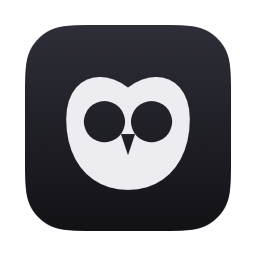
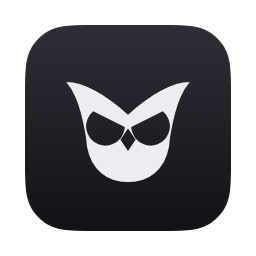
Redraw the owl as a bird of prey
The barn-owl disc was too soft. The head is now a brow that dips to a V at
the centre and sweeps up to a point above each eye, over a face tapering to
a rounded chin. Eyes are circles with the top-inner corner sliced off by
the brow, subtracted from the eye path so the panel, menu bar and app icon
all get the shape from one place. Beak is a diamond.

Regenerated the app icon at all seven sizes, the README header icon and the
panel screenshot to match.

Claude-Session: https://claude.ai/code/session_01GgRYtYZsA2XAfZJ51LhcUG

Changed region(s): [[0.25, 0.2812, 0.75, 0.75]]

diff --git a/Perch/Views/Owl/OwlGeometry.swift b/Perch/Views/Owl/OwlGeometry.swift
@@ -4,27 +4,22 @@ import SwiftUI
 /// `size / baseSize`, so the whole face scales from one number.
 enum OwlGeometry {
     static let baseSize: CGFloat = 24
-    static let faceWidthRatio: CGFloat = 21
-    static let faceHeightRatio: CGFloat = 20
+    static let faceWidthRatio: CGFloat = 23
+    static let faceHeightRatio: CGFloat = 19
 
-    /// No ear tufts. Horns on a round head read as a cat, which is exactly what
-    /// the first pass looked like. What says owl without them is the facial
-    /// disc: a heart, broad and notched across the brow, tapering to a rounded
-    /// chin. No other animal has that silhouette.
-    ///
     /// Circles, not the robot's 3.4x4.4 bars — nearly double the area, which is
     /// the reason to be an owl at all: eye state stays readable at menu bar size.
-    static let eyeSpacingRatio: CGFloat = 4.0
-    static let eyeWidthRatio: CGFloat = 7.0
-    static let eyeHeightRatio: CGFloat = 7.0
+    static let eyeSpacingRatio: CGFloat = 4.2
+    static let eyeWidthRatio: CGFloat = 7.2
+    static let eyeHeightRatio: CGFloat = 7.2
     static let minEyeHeightRatio: CGFloat = 0.7
     /// The eyes ride high in the disc — an owl's sit up under the brow, and a
     /// low-set eye is part of what made the first pass read as a cat.
-    static let eyeCenterOffsetRatio: CGFloat = 1.6
+    static let eyeCenterOffsetRatio: CGFloat = 0.9
 
-    static let beakWidthRatio: CGFloat = 2.4
-    static let beakTopRatio: CGFloat = 2.1
-    static let beakDepthRatio: CGFloat = 3.6
+    static let beakWidthRatio: CGFloat = 2.8
+    static let beakTopRatio: CGFloat = 0.4
+    static let beakDepthRatio: CGFloat = 4.2
 
     static func eyeOpenness(for state: OwlHead.EyeState) -> CGFloat {
         switch state {
@@ -35,53 +30,72 @@ enum OwlGeometry {
         }
     }
 
-    /// The facial disc. Four curves: out over each brow dome from the notch,
-    /// then both cheeks down into a single rounded chin. Every control point is a
-    /// fraction of `rect`, so the disc scales with no scale argument.
+    /// The head. Not a disc — a brow that dips to a V at the centre and sweeps
+    /// up and out to a point above each eye, over a face that tapers to a
+    /// rounded chin. Ear tufts on a round head read as a cat; this reads as a
+    /// bird of prey, which is the whole difference.
+    ///
+    /// Every control point is a fraction of `rect`, so it needs no scale.
     static func headPath(in rect: CGRect) -> Path {
-        let w = rect.width, h = rect.height
-        let notch = CGPoint(x: rect.midX, y: rect.minY + 0.13 * h)   // brow dip
-        let widestY = rect.minY + 0.40 * h                           // cheeks at full width
-        let overshoot = rect.minY - 0.05 * h                         // brow domes clear the box
-        let chin = CGPoint(x: rect.midX, y: rect.maxY)
+        func p(_ fx: CGFloat, _ fy: CGFloat) -> CGPoint {
+            CGPoint(x: rect.minX + fx * rect.width, y: rect.minY + fy * rect.height)
+        }
 
         var path = Path()
-        path.move(to: notch)
-        path.addCurve(                                       // left brow dome
-            to: CGPoint(x: rect.minX, y: widestY),
-            control1: CGPoint(x: rect.midX - 0.22 * w, y: overshoot),
-            control2: CGPoint(x: rect.minX, y: rect.minY + 0.04 * h)
-        )
-        path.addCurve(                                       // left cheek into the chin
-            to: chin,
-            control1: CGPoint(x: rect.minX, y: rect.minY + 0.76 * h),
-            control2: CGPoint(x: rect.midX - 0.30 * w, y: rect.maxY)
-        )
-        path.addCurve(                                       // right cheek back up
-            to: CGPoint(x: rect.maxX, y: widestY),
-            control1: CGPoint(x: rect.midX + 0.30 * w, y: rect.maxY),
-            control2: CGPoint(x: rect.maxX, y: rect.minY + 0.76 * h)
-        )
-        path.addCurve(                                       // right brow dome
-            to: notch,
-            control1: CGPoint(x: rect.maxX, y: rect.minY + 0.04 * h),
-            control2: CGPoint(x: rect.midX + 0.22 * w, y: overshoot)
-        )
+        // The tip is sharp because the two curves meeting there leave almost
+        // antiparallel: control2 of the brow and control1 of the outer edge sit
+        // on nearly the same line through it. Splay them and it goes blunt.
+        path.move(to: p(0.50, 0.34))                                   // brow notch
+        path.addCurve(to: p(0.00, 0.02),                               // up to the left tip
+                      control1: p(0.33, 0.15), control2: p(0.13, 0.01))
+        path.addCurve(to: p(0.16, 0.56),                               // down the outer edge
+                      control1: p(0.09, 0.14), control2: p(0.13, 0.35))
+        path.addCurve(to: p(0.50, 1.00),                               // left cheek into the chin
+                      control1: p(0.17, 0.85), control2: p(0.31, 1.00))
+        path.addCurve(to: p(0.84, 0.56),                               // right cheek back up
+                      control1: p(0.69, 1.00), control2: p(0.83, 0.85))
+        path.addCurve(to: p(1.00, 0.02),                               // up the outer edge
+                      control1: p(0.87, 0.35), control2: p(0.91, 0.14))
+        path.addCurve(to: p(0.50, 0.34),                               // back down to the notch
+                      control1: p(0.87, 0.01), control2: p(0.67, 0.15))
         path.closeSubpath()
         return path
     }
 
-    /// A narrow downward wedge between the eyes. `eyeCenterY` is the eyes' shared
-    /// centre line — the beak hangs off that rather than off the head, so it stays
-    /// under the eyes as they glance around.
+    /// A circle with the top-inner corner sliced off by the brow. Plain circles
+    /// read owlish but placid; the cut is what makes it glare. The slice is
+    /// subtracted from the eye rather than drawn over it so that all three
+    /// renderers — panel, menu bar, app icon — get the same shape from one path.
+    static func eyePath(in rect: CGRect, innerIsRight: Bool) -> Path {
+        let outerY = rect.minY + 0.02 * rect.height   // barely clipped at the temple
+        let innerY = rect.minY + 0.52 * rect.height   // deep cut beside the beak
+        let (leftY, rightY) = innerIsRight ? (outerY, innerY) : (innerY, outerY)
+
+        let top = rect.minY - rect.height
+
+        var cut = Path()
+        cut.move(to: CGPoint(x: rect.minX, y: leftY))
+        cut.addLine(to: CGPoint(x: rect.maxX, y: rightY))
+        cut.addLine(to: CGPoint(x: rect.maxX, y: top))
+        cut.addLine(to: CGPoint(x: rect.minX, y: top))
+        cut.closeSubpath()
+
+        return Path(roundedRect: rect, cornerRadius: rect.width / 2).subtracting(cut)
+    }
+
+    /// A small diamond between the eyes. `eyeCenterY` is the eyes' shared centre
+    /// line — the beak hangs off that rather than off the head, so it stays under
+    /// the eyes as they glance around.
     static func beakPath(midX: CGFloat, eyeCenterY: CGFloat, scale: CGFloat) -> Path {
         let halfWidth = beakWidthRatio * scale / 2
         let top = eyeCenterY + beakTopRatio * scale
+        let depth = beakDepthRatio * scale
 
         var path = Path()
-        path.move(to: CGPoint(x: midX - halfWidth, y: top))
-        path.addLine(to: CGPoint(x: midX + halfWidth, y: top))
-        path.addLine(to: CGPoint(x: midX, y: top + beakDepthRatio * scale))
+        path.move(to: CGPoint(x: midX, y: top))
+        path.addLine(to: CGPoint(x: midX + halfWidth, y: top + depth / 2))
+        path.addLine(to: CGPoint(x: midX, y: top + depth))
+        path.addLine(to: CGPoint(x: midX - halfWidth, y: top + depth / 2))
         path.closeSubpath()
         return path
     }

diff --git a/Perch/Views/Owl/OwlHead.swift b/Perch/Views/Owl/OwlHead.swift
@@ -33,7 +33,6 @@ struct OwlHead: View {
             let eyeWidth = OwlGeometry.eyeWidthRatio * scale
             let fullEyeHeight = OwlGeometry.eyeHeightRatio * scale
             let eyeHeight = max(fullEyeHeight * eyeOpenness, OwlGeometry.minEyeHeightRatio * scale)
-            let eyeCornerRadius = eyeWidth / 2
 
             for xOffset in [-eyeSpacing, eyeSpacing] {
                 let eyeX = mid.x + xOffset + pupilOffset.x * 0.5 * scale
@@ -45,7 +44,7 @@ struct OwlHead: View {
                 )
 
                 context.fill(
-                    Path(roundedRect: eyeRect, cornerRadius: eyeCornerRadius),
+                    OwlGeometry.eyePath(in: eyeRect, innerIsRight: xOffset < 0),
                     with: .color(eyeColor)
                 )
             }

diff --git a/Perch/Views/Owl/MenuBarIcon.swift b/Perch/Views/Owl/MenuBarIcon.swift
@@ -52,7 +52,7 @@ private struct MenuBarOwl: View {
                     width: eyeWidth,
                     height: eyeHeight
                 )
-                punch.addPath(Path(roundedRect: eyeRect, cornerRadius: eyeWidth / 2))
+                punch.addPath(OwlGeometry.eyePath(in: eyeRect, innerIsRight: xOffset < 0))
             }
 
             // The features are cut out of the disc by an inverse clip rather than
